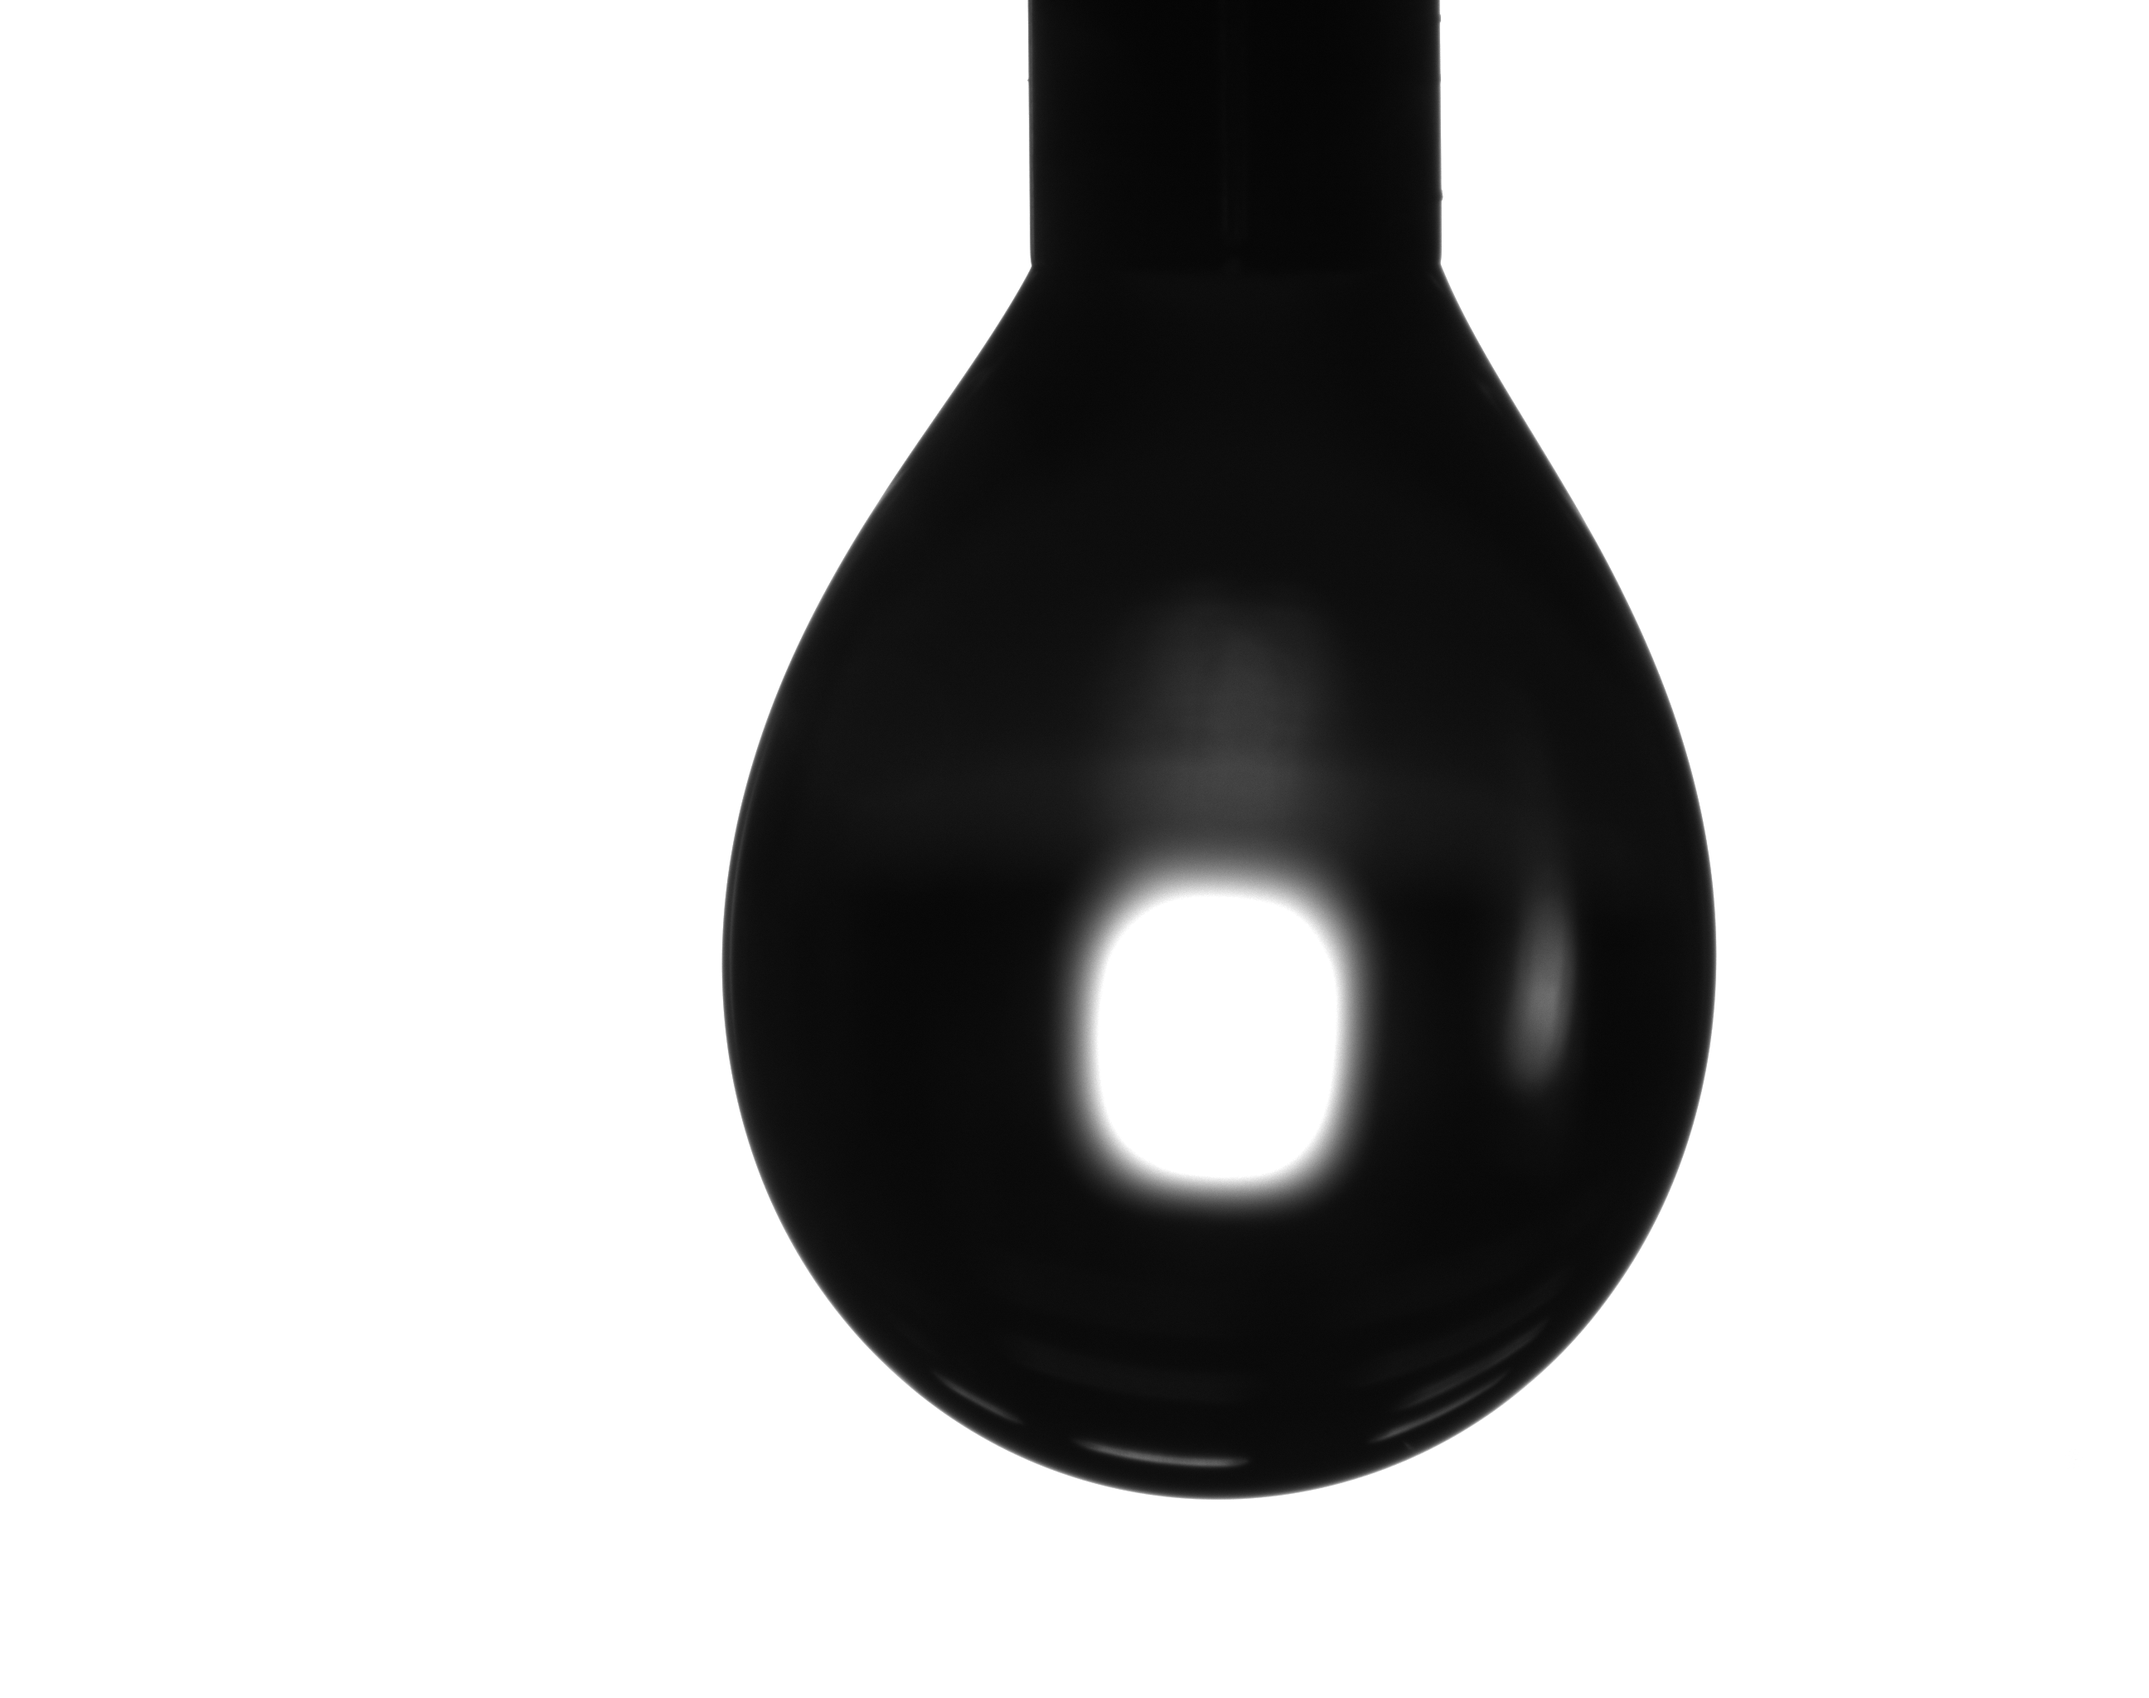
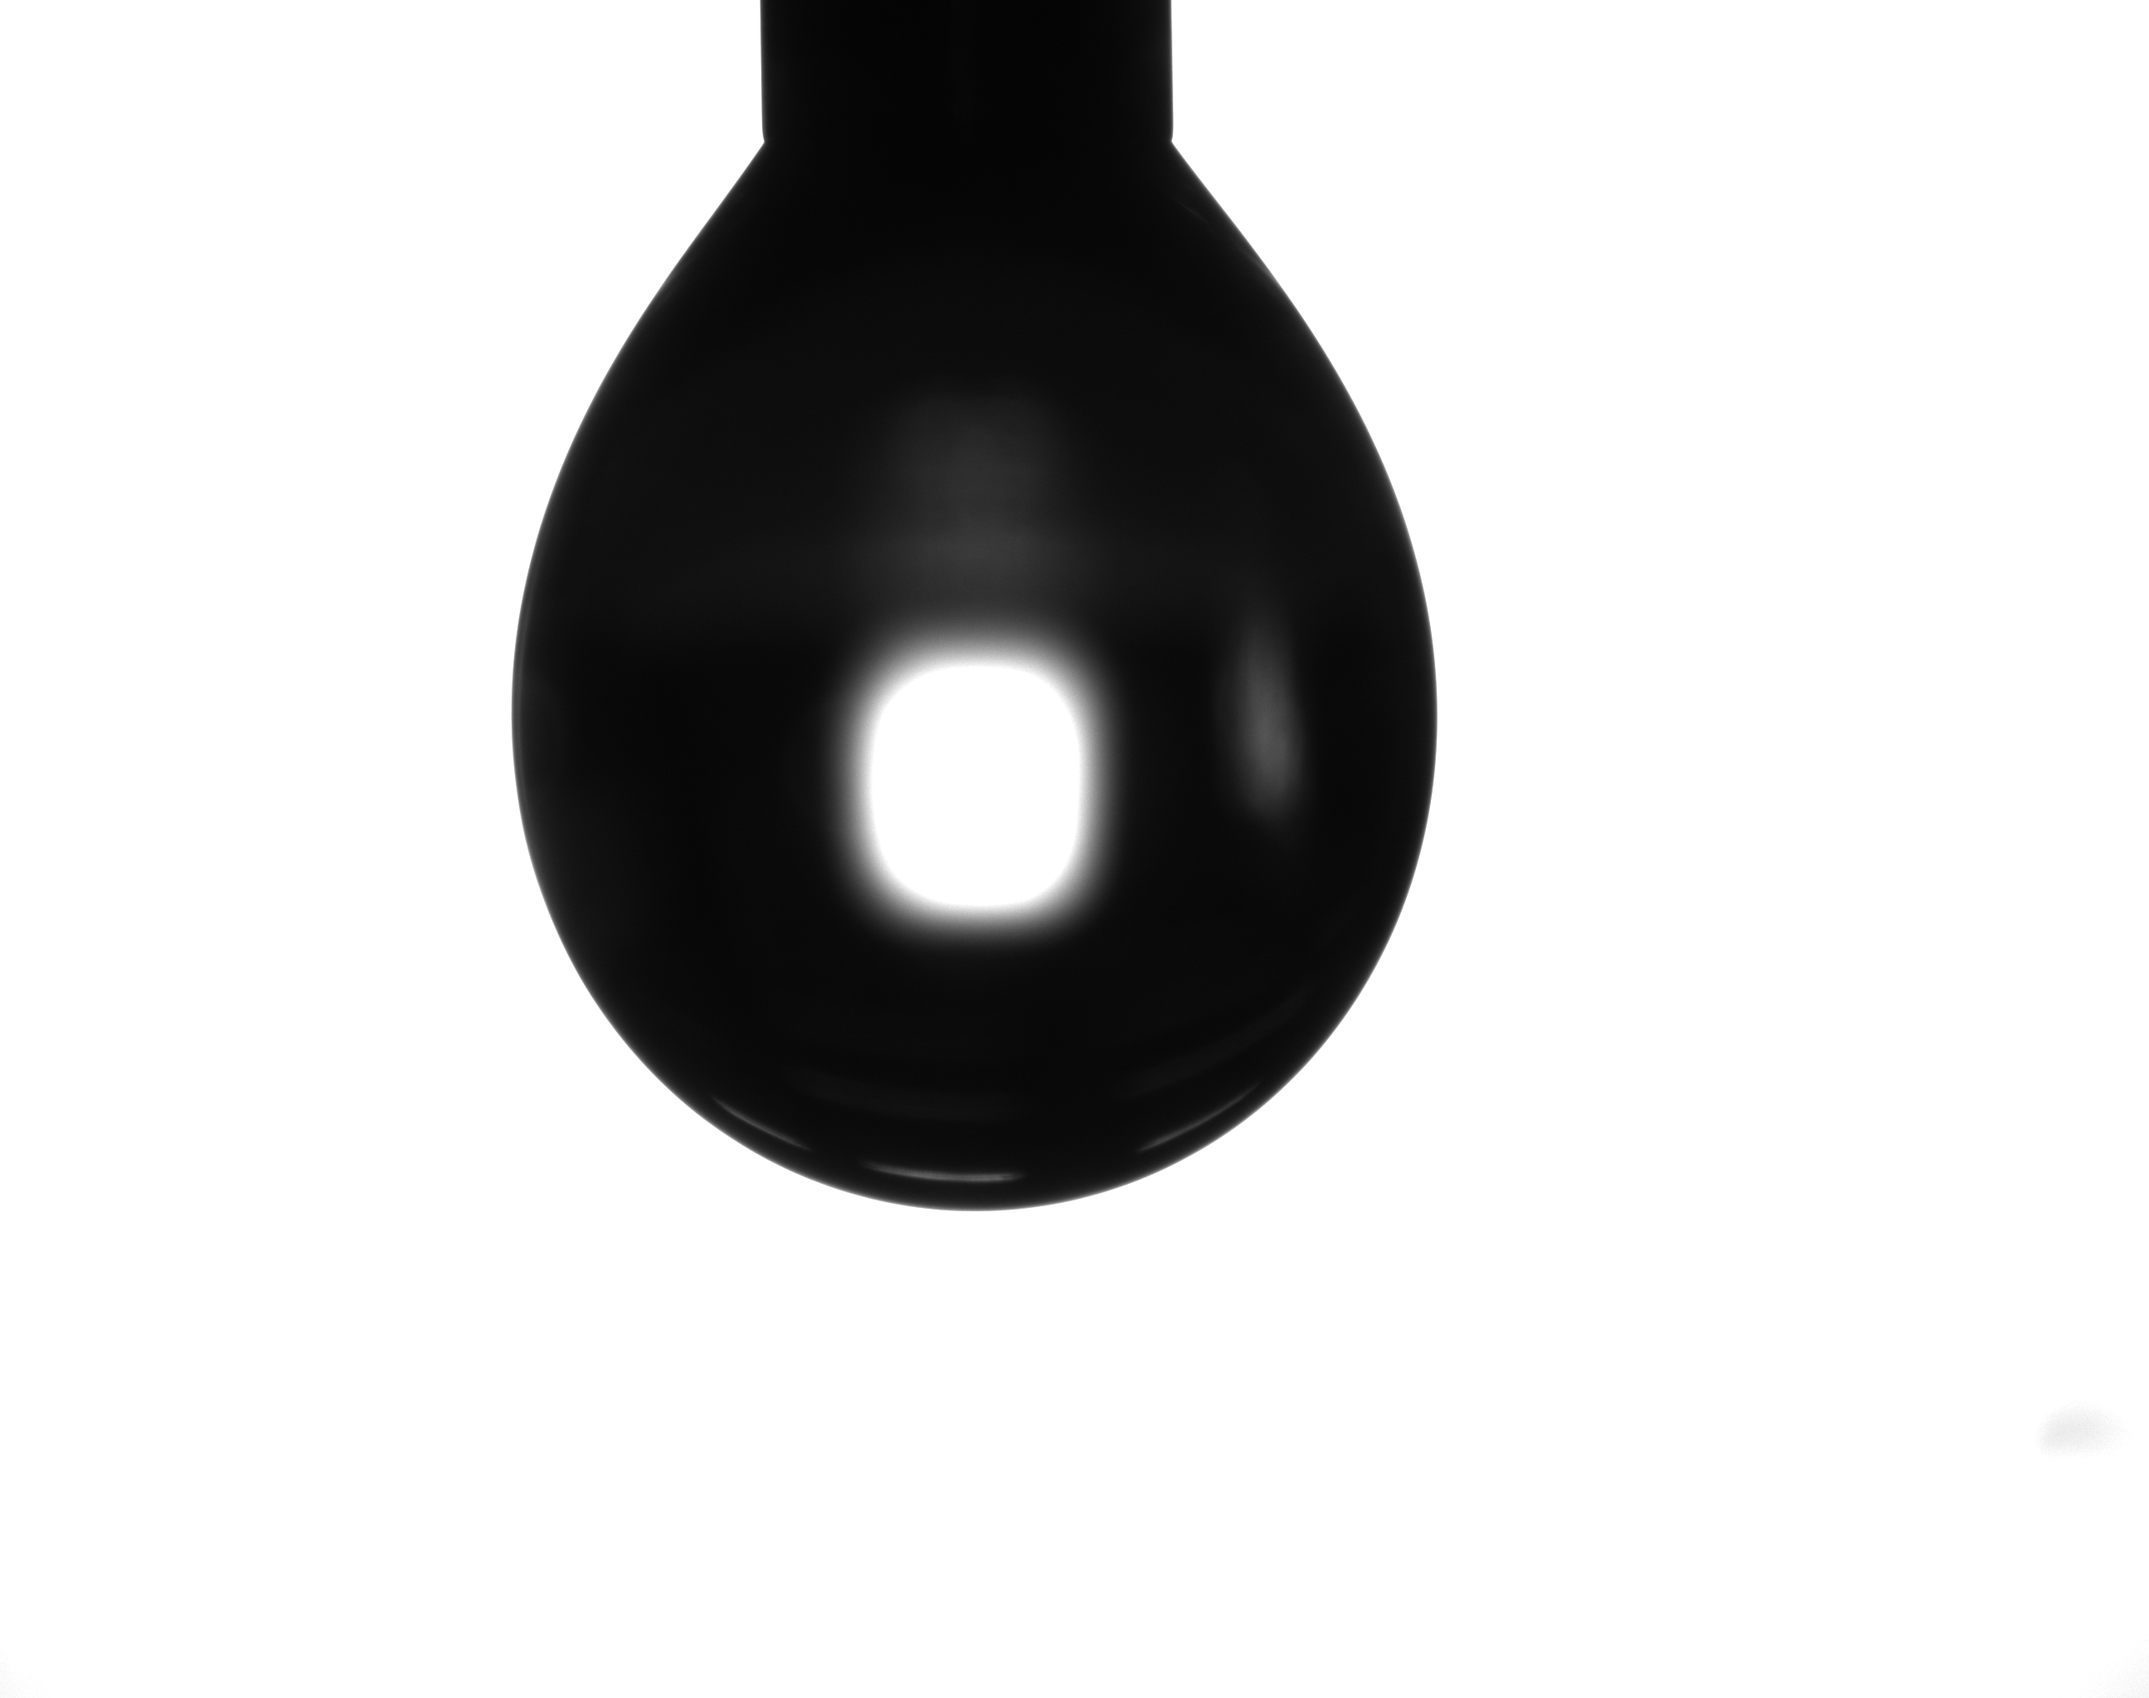
applied stash

Changed region(s): [[0.2188, 0.0, 0.8125, 0.9062]]

diff --git a/src/pendantprop/protocol.py b/src/pendantprop/protocol.py
@@ -140,7 +140,7 @@ class Protocol:
                 sample_id_dilution = f"{sample_id}_{i}"
                 self.containers[well_id_to_measure].sample_id = sample_id_dilution
                 self.measure_well(well_id=well_id_to_measure, type=type)
-            self.washer.wash()
+            self.washer.wash_with_ethanol()
 
         self.logger.info("Finished characterisation protocol.\n\n\n")
         self.config.home()

diff --git a/scripts/run_server.py b/scripts/run_server.py
@@ -10,4 +10,4 @@ sys.path.insert(0, os.path.join(os.path.dirname(__file__), '..', 'src'))
 from pendantprop.server.app import app
 
 if __name__ == "__main__":
-    app.run(debug=True, host="0.0.0.0", port=5000, use_reloader=False)
+    app.run(debug=True, host="192.168.0.73", port=5000, use_reloader=False)
